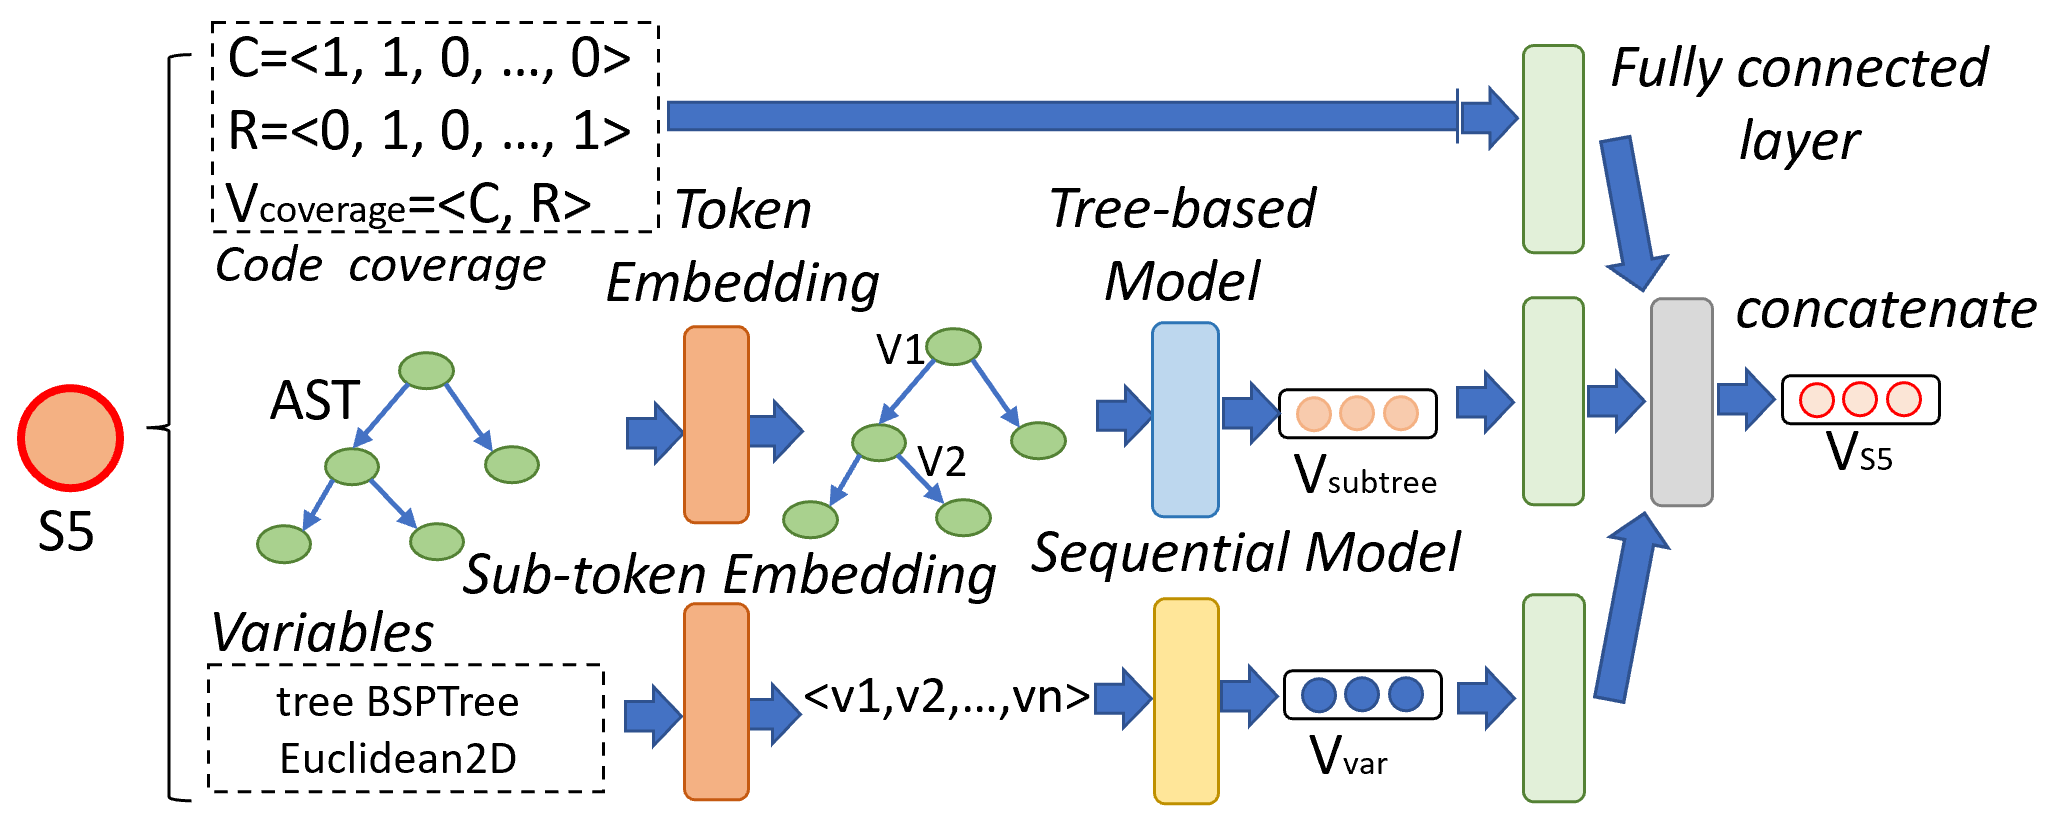
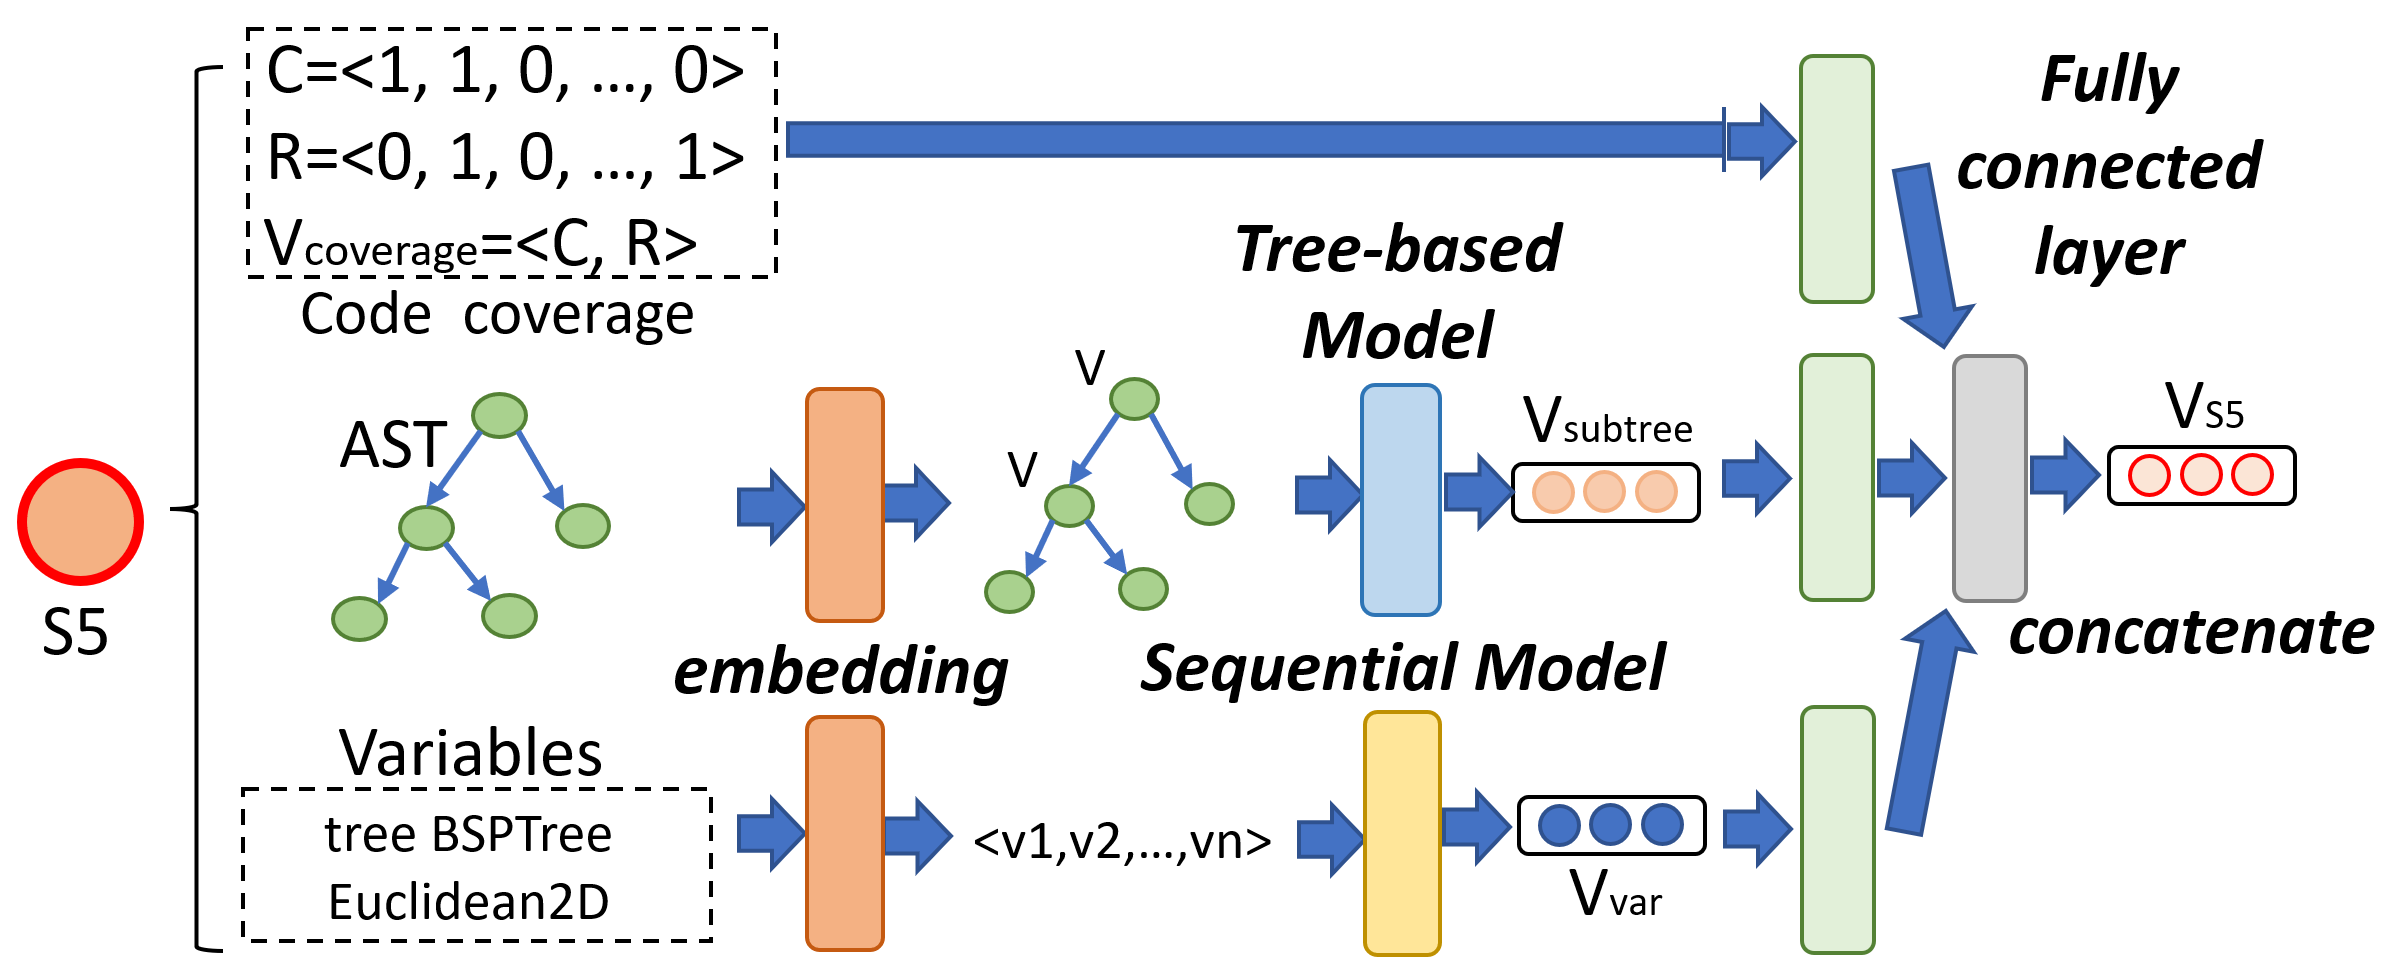
done with Step 2

diff --git a/sections/approach_step2-new.tex b/sections/approach_step2-new.tex
@@ -23,6 +23,8 @@ graph in which the nodes are replaced by their embeddings.
 
 %From step 1, for each node representing a method $M$, there are extracted sequences of sub-tokens $Seq^p_m$ as the method content, generated AST $Tree_m$, and the generated AST for the most similar buggy method $M_b$ as the node features. Thus, to learn the feature representation, we follow these steps.
 
+We process the attributes of a method as follows.
+
 1) {\em \underline{The method's content}}: the method's content is
 represented by the sequence $Seq_c$ of the sub-tokens of the program
 elements found in the method's interface and body. To capture the
@@ -65,13 +67,44 @@ embedding vector $V_{MSBM}$ to represent $M_b$.
 	\label{statement-level-feature-learning}
 \end{figure}
 
-From step 1, for each node representing a statement $S$, there are extracted code coverage information vector, generated AST subtree $Tree_s$, and the generated variable sequence as the node features. Thus, to learn the feature representation, we follow these steps.
+We process the following attributes of a statement as follows.
 
-1) {\em \underline{Code Coverage}}: \tool does not make any changes and directly regard $V_{Cov} = <c_1, c_2, ...,
-c_K, r_1, r_2, ..., r_K>$ that is extracted from step 1 as the embedding vector $V_{cc}$ for the code coverage. 
+1) {\em \underline{Code Coverage}}: we directly use the vector
+$V_{Coverage} = <c_1, c_2, ...$, $c_K, r_1, r_2, ..., r_K>$ computed
+from step 1 for the next computation.
 
-2) {\em \underline{The statement's structure}}: \tool does the same process as the method's structure feature. \tool firstly using the GloVe to vectorize the AST and then using tree-based model TreeCaps to learn the embedding vector $V^{subtree}$. Just like the process steps for the AST subtree feature in Figure \ref{statement-level-feature-learning}.
+%\tool does not make any changes and directly regard $V_{Cov} = <c_1,
+%c_2, ..., c_K, r_1, r_2, ..., r_K>$ that is extracted from step 1 as
+%the embedding vector $V_{cc}$ for the code coverage.
 
-3) {\em \underline{List of variables}}: As for the similar buggy method, \tool doing the same process as the method structure feature by using the GloVe and TreeCaps to learn the embedding vector $V^{var}$. For example, in Figure \ref{statement-level-feature-learning}, the variable sequence $tree BSPTree Euclidean2D$ in $S5$ has been embedded through the sub-token embedding technique into $<V_{tree}, V_{BSPTree}, V_{Euclidean2D}>$ and then the sequential model learns the representation vector $V_{var}$ for the variable sequence. 
+%From step 1, for each node representing a statement $S$, there are extracted code coverage information vector, generated AST subtree $Tree_s$, and the generated variable sequence as the node features. Thus, to learn the feature representation, we follow these steps.
 
-After having the six embedding vectors mentioned above, \tool uses six fully connected layers to standardize each embedding vector's length to $l/3$ (Here l/3 is an integer). And then, for both method-level and statement-level, \tool concatenate three feature embedding vector into one vector $V_{M}$ or $V_{S}$ for the method-level or statement-level with the length of $l$. In this case, for both method-level and statement-level, \tool all has the graph $G_m$ or $G_s$ with the node embedding vector $V_{m}$ or $V_{s}$. It is the input for the next step.
+
+
+2) {\em \underline{The statement's structure}}: we process the AST
+subtree representing the statement's structure in the same manner as
+the method's structure in order to produce the vector $V_{subtree}$.
+
+
+%\tool does the same process as the method's structure feature. \tool firstly using the GloVe to vectorize the AST and then using tree-based model TreeCaps to learn the embedding vector $V^{subtree}$. Just like the process steps for the AST subtree feature in Figure \ref{statement-level-feature-learning}.
+
+3) {\em \underline{List of variables}}: we process this in the same
+manner as the method's content (a sequence of sub-tokens). That is, we
+apply the embedding model, GloVe, on the sequence of sub-tokens to
+produce a sequence of vectors and then use a sequential model, GRU, to
+produce the summarized vector for the list of variables.
+
+%As for the similar buggy method, \tool doing the same process as the method structure feature by using the GloVe and TreeCaps to learn the embedding vector $V^{var}$. For example, in Figure \ref{statement-level-feature-learning}, the variable sequence $tree BSPTree Euclidean2D$ in $S5$ has been embedded through the sub-token embedding technique into $<V_{tree}, V_{BSPTree}, V_{Euclidean2D}>$ and then the sequential model learns the representation vector $V_{var}$ for the variable sequence. 
+
+After computing the six embeddings for six attributes of a method and
+a statement, we use six fully connected layers to standardize each
+vector's length to $l/3$ (Here, l/3 is an integer). For a
+method/statement, we concatenate the three output vectors from the
+fully connected layer to produce the vector $V_{M}$ for the method or
+$V_{S}$ for the statement with the length of $l$. After this 
+step, we have the feature graph $G_{M}$ for each method and the graph
+$G_{S}$ for each statement in which each node in each graph is
+represented by a vector $V_{M}$ for a method or $V_{S}$ for a
+statement computed by this~step.
+
+%After having the six embedding vectors mentioned above, \tool uses six fully connected layers to standardize each embedding vector's length to $l/3$ (Here l/3 is an integer). And then, for both method-level and statement-level, \tool concatenate three feature embedding vector into one vector $V_{M}$ or $V_{S}$ for the method-level or statement-level with the length of $l$. In this case, for both method-level and statement-level, \tool all has the graph $G_m$ or $G_s$ with the node embedding vector $V_{m}$ or $V_{s}$. It is the input for the next step.
